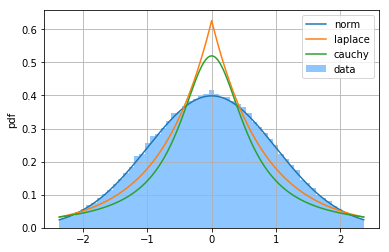
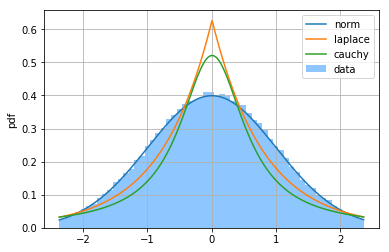
Changed y-axis to logarithmic

Changed region(s): [[0.1542, 0.0833, 0.8638, 0.8611], [0.7095, 0.5833, 0.7404, 0.6111]]

diff --git a/isgaussian.py b/isgaussian.py
@@ -91,16 +91,17 @@ def plot(y, y_name=None, params=None, **kwargs):
     for y_left in np.arange(y_min, y_max, y_step):
         bins_means.append(y_left + y_step/2.)
         bins_ys.append(np.sum((y>=y_left) & (y<y_left+y_step)))
-    bins_ys = np.log(np.array(bins_ys) / len(y) / y_step)  # normalize
+    bins_ys = np.array(bins_ys) / len(y) / y_step  # normalize
 
     f, ax = plt.subplots(**kwargs)
     ax.scatter(bins_means, bins_ys, s=5., color="dodgerblue", label=label)
     for name, param in params.items():
         distr = getattr(stats, name)
-        ax.plot(y_space, np.log(distr.pdf(y_space, loc=param[0], scale=param[1])), label=name)
+        ax.plot(y_space, distr.pdf(y_space, loc=param[0], scale=param[1]), label=name)
 
     ax.legend()
-    ax.set_ylabel('log pdf')
+    ax.set_ylabel('pdf')
+    ax.set_yscale('log')
     if y_name is not None:
         ax.set_xlabel(y_name)
     ax.grid(True)
@@ -120,16 +121,17 @@ def plot(y, y_name=None, params=None, **kwargs):
     for y_left in np.arange(y_min, y_max, y_step):
         bins_means.append(y_left + y_step/2.)
         bins_ys.append(np.sum((y>=y_left) & (y<y_left+y_step)))
-    bins_ys = np.log(np.array(bins_ys) / len(y) / y_step)  # normalize
+    bins_ys = np.array(bins_ys) / len(y) / y_step  # normalize
 
     f, ax = plt.subplots(**kwargs)
     ax.scatter(bins_means, bins_ys, s=5., color="dodgerblue", label=label)
     for name, param in params.items():
         distr = getattr(stats, name)
-        ax.plot(y_space, np.log(distr.pdf(y_space, loc=param[0], scale=param[1])), label=name)
+        ax.plot(y_space, distr.pdf(y_space, loc=param[0], scale=param[1]), label=name)
 
     ax.legend()
-    ax.set_ylabel('log pdf')
+    ax.set_ylabel('pdf')
+    ax.set_yscale('log')
     if y_name is not None:
         ax.set_xlabel(y_name)
     ax.grid(True)

diff --git a/README.md b/README.md
@@ -11,9 +11,9 @@ isgaussian.plot(y)
 ```
 ```
 Estimating distributions parameters...
-norm (-0.0018456060682745922, 1.0001900711528913)
-laplace (-0.0016155583094764148, 0.7982866738374146)
-cauchy (-0.002052229009204931, 0.6125983563697108)
+norm (0.0035079815092311367, 0.9992993746985821)
+laplace (0.006570061006097082, 0.7971030961438007)
+cauchy (0.007410253342752503, 0.6114054918233304)
 ```
 
 ![](examples/hist.png?raw=true)  
